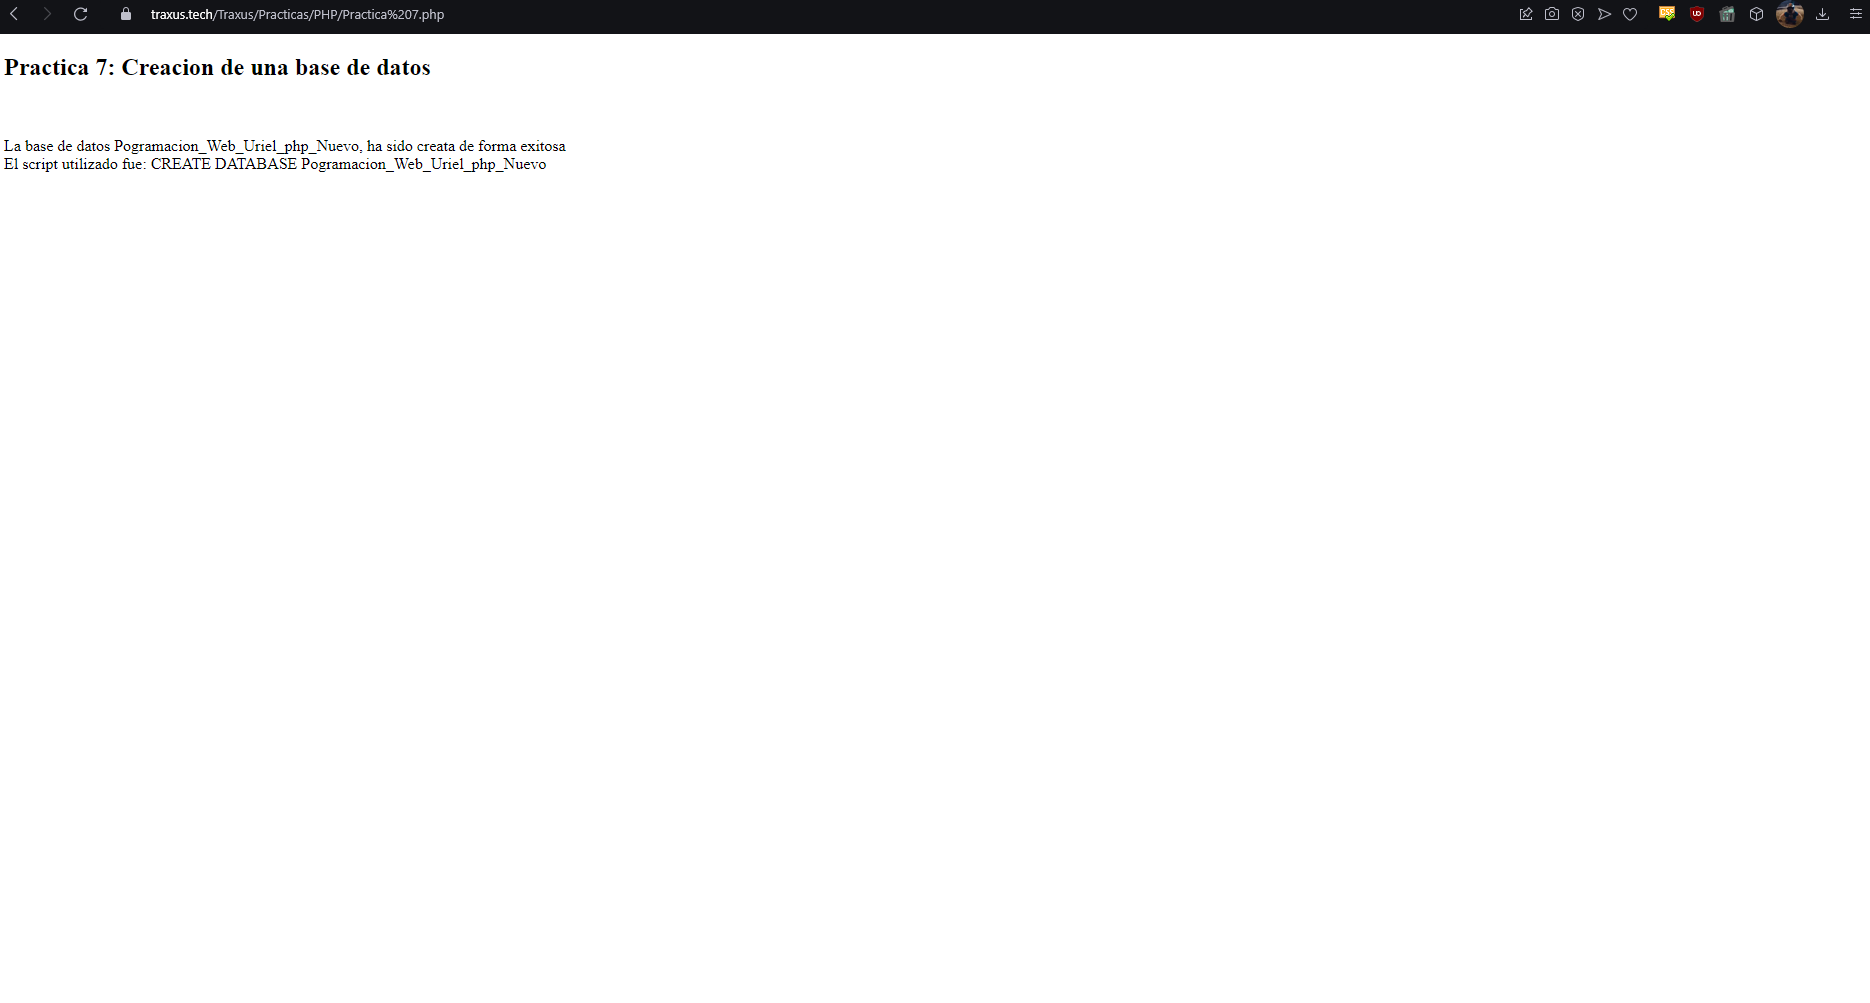
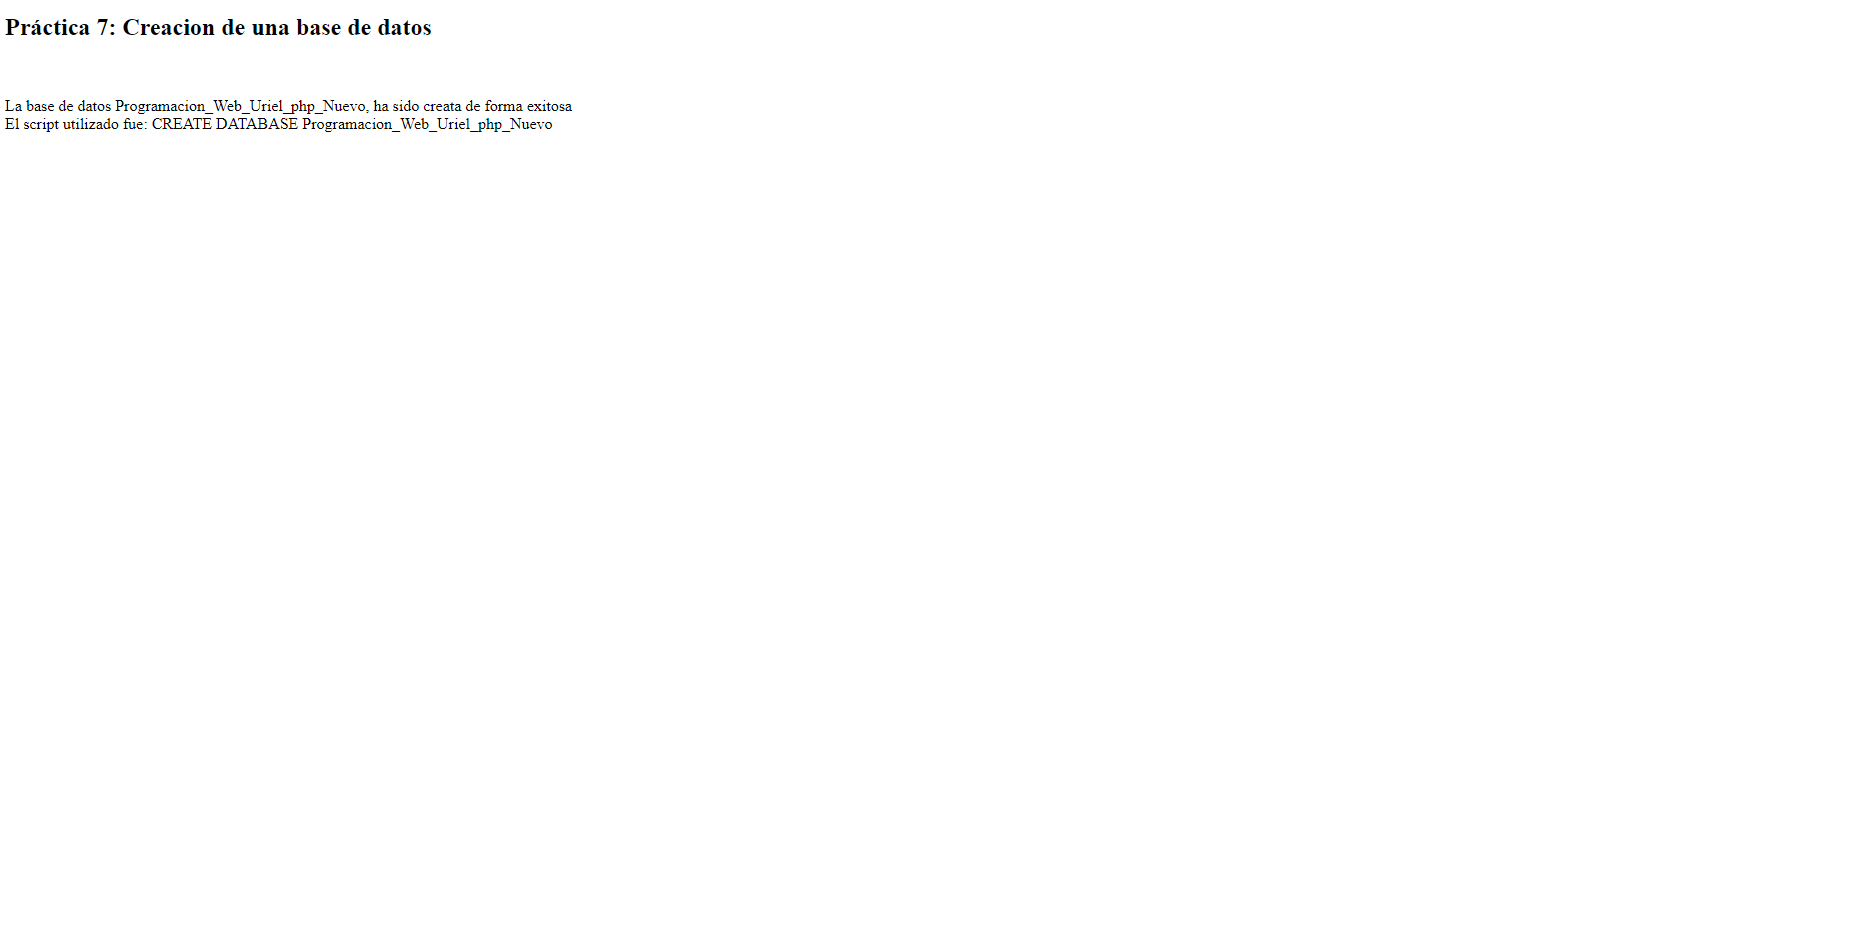
Update Practica 7

Changed region(s): [[0.0, 0.0, 1.0, 0.1828]]

diff --git a/Practicas/PHP/Practica 7.html b/Practicas/PHP/Practica 7.html
@@ -3,7 +3,10 @@
 <html lang="es">
 
 	<head>
+		
 		<title> Séptima Secuencia </title>
+        <meta charset = "UTF-8">
+
 	</head>
 
 	<body>

diff --git a/Practicas/PHP/Practica 7.php b/Practicas/PHP/Practica 7.php
@@ -20,18 +20,18 @@
 
 			$conexion = mysqli_connect($servidor,$usuario,$password,$baseDeDatos);
 
-			$nombreNuevaBaseDeDatos = "Pogramacion_Web_Uriel_php_Nuevo";
+			$nombreNuevaBaseDeDatos = "Programacion_Web_Uriel_php_Nuevo";
 
 			$consulta = "CREATE DATABASE $nombreNuevaBaseDeDatos";
 
-			if ($resultado = mysqli_query($conexion,$consulta)){
+			if ($resultado = mysqli_query($conexion,$consulta)) {
 				echo "La base de datos $nombreNuevaBaseDeDatos, ha sido creata de forma exitosa";
 				echo "<br>";
 				echo "El script utilizado fue: $consulta";
 			}
 
-			else{
-				"La base de datos $nombreNuevaBaseDeDatos no se ha podido crear<br>".mysqli_error($conexion);
+			else {
+				"La base de datos $nombreNuevaBaseDeDatos no se ha podido crear" . mysqli_error($conexion);
 			}
 
 			mysqli_close($conexion);
